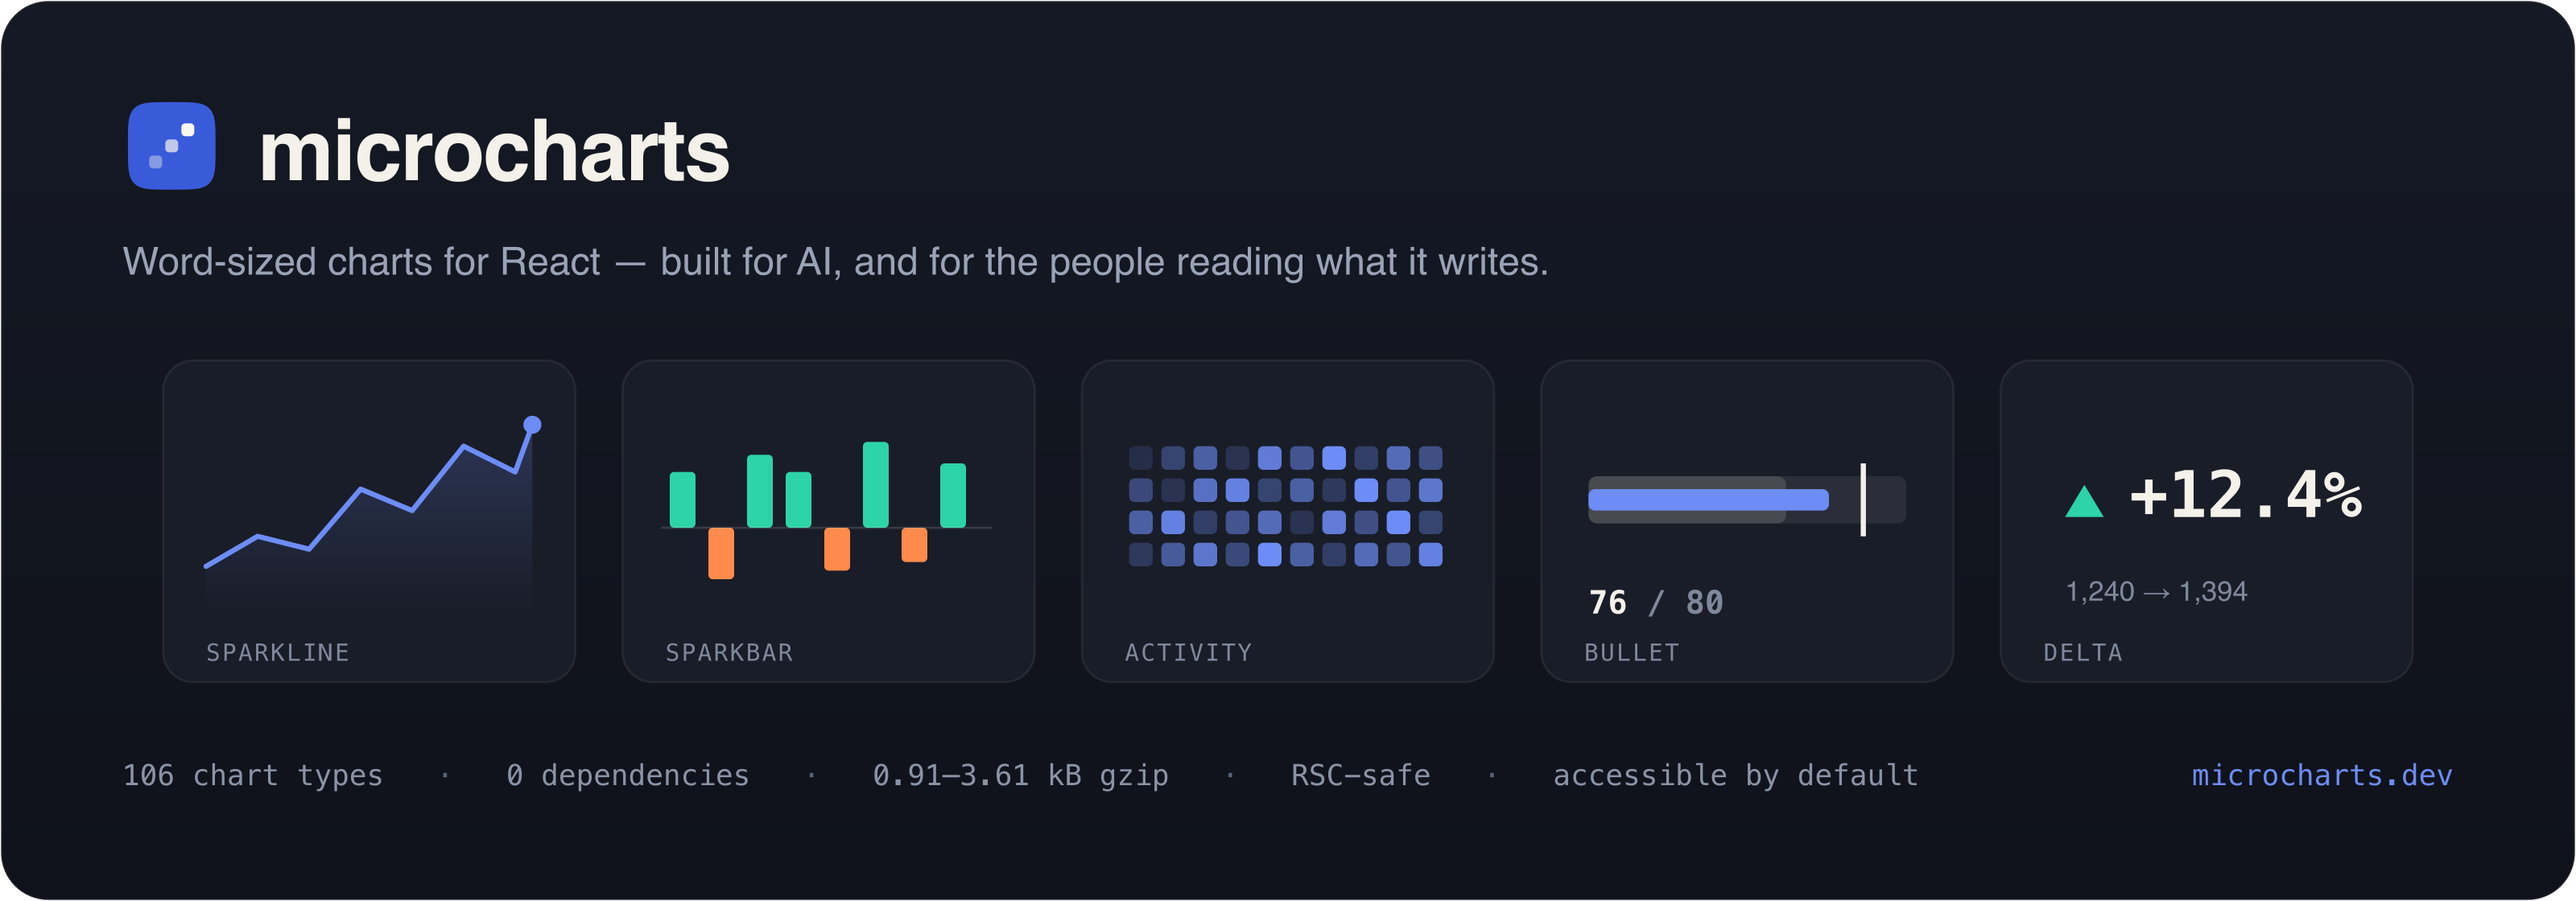
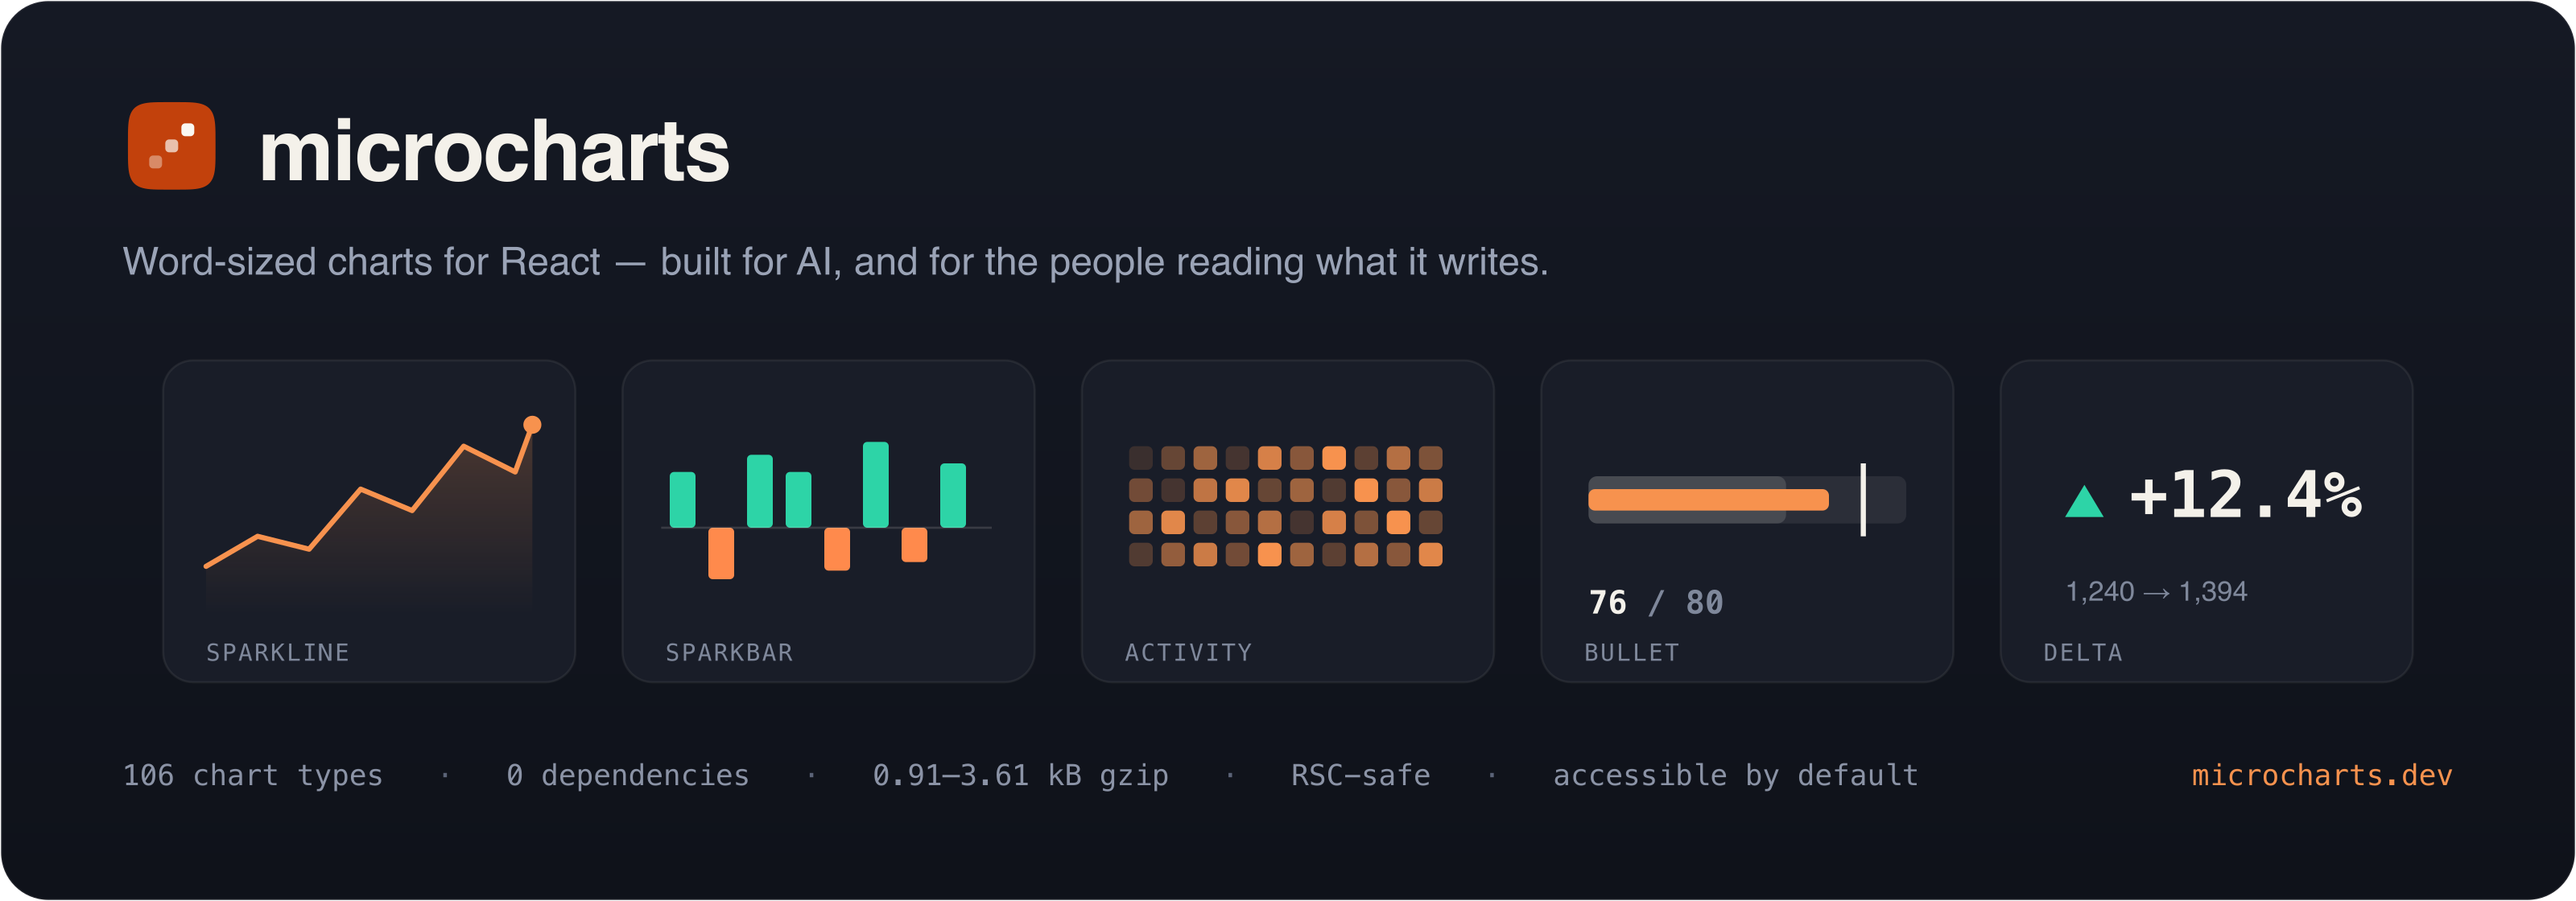
chore(docs): regenerate brand, promo, social & OG assets for Ember
Primary brand mark, brand kit zip, promo/social boards, OG default image,
and README badges all reflect the new Ember default accent; cobalt ships as
the cool-accent sibling (mark-cobalt.svg). No logic change, regenerated
artifacts + the brand-page metadata that names them.

Pre-existing uncommitted work on the branch; reviewed and verified green.

diff --git a/apps/docs/src/components/brand/shared.tsx b/apps/docs/src/components/brand/shared.tsx
@@ -5,17 +5,17 @@ import { CELL_FILL, CELL_R, CELL_SIZE, CELLS, SQUIRCLE_PATH } from "@/lib/brand"
 export type Tile = "light" | "dark" | "auto";
 
 export const ASSETS: { file: string; name: string; note: string; tile: Tile }[] = [
-  { file: "mark.svg", name: "Primary", note: "Cobalt squircle", tile: "light" },
+  { file: "mark.svg", name: "Primary", note: "Ember squircle", tile: "light" },
   { file: "mark-adaptive.svg", name: "Adaptive", note: "Auto light / dark", tile: "auto" },
   { file: "mark-mono-dark.svg", name: "Mono", note: "Dark ink · on light", tile: "light" },
   { file: "mark-mono-light.svg", name: "Mono", note: "Light ink · on dark", tile: "dark" },
-  { file: "mark-ember.svg", name: "Ember", note: "Warm accent", tile: "light" },
+  { file: "mark-cobalt.svg", name: "Cobalt", note: "Cool accent", tile: "light" },
   { file: "mark-teal.svg", name: "Teal", note: "Cool accent", tile: "light" },
 ];
 
 export const ACCENTS: { name: string; light: string; dark: string }[] = [
-  { name: "Cobalt", light: "#2f52d4", dark: "#7f9cf5" },
   { name: "Ember", light: "#c2410c", dark: "#f7924e" },
+  { name: "Cobalt", light: "#2f52d4", dark: "#7f9cf5" },
   { name: "Clay", light: "#a14a34", dark: "#e08e73" },
   { name: "Moss", light: "#4d7c1e", dark: "#a3c46a" },
   { name: "Teal", light: "#0f766e", dark: "#55c2b3" },

diff --git a/apps/docs/src/app/og/default.png/route.tsx b/apps/docs/src/app/og/default.png/route.tsx
@@ -31,7 +31,7 @@ export function GET() {
             width: 44,
             height: 44,
             borderRadius: 12,
-            background: "#2f52d4",
+            background: "#c2410c",
             display: "flex",
             alignItems: "center",
             justifyContent: "center",
@@ -64,12 +64,12 @@ export function GET() {
           <polyline
             points="0,96 120,80 240,88 360,52 480,64 600,30 720,44 840,14 960,26 1056,4"
             fill="none"
-            stroke="#2f52d4"
+            stroke="#c2410c"
             strokeWidth="5"
             strokeLinecap="round"
             strokeLinejoin="round"
           />
-          <circle cx="1056" cy="4" r="9" fill="#2f52d4" />
+          <circle cx="1056" cy="4" r="9" fill="#c2410c" />
         </svg>
       </div>
 

diff --git a/apps/docs/src/components/brand/logo-variants.tsx b/apps/docs/src/components/brand/logo-variants.tsx
@@ -11,7 +11,7 @@ export function BrandLogoVariants() {
       <Reveal className="mb-8 max-w-2xl">
         <h2 className="display text-[length:var(--text-fluid-h2)]">Six SVGs. Copy or download.</h2>
         <p className="mt-4 max-w-xl text-fd-muted-foreground">
-          Primary Cobalt, adaptive for light/dark hosts, mono inks, and two accent siblings. Each
+          Primary Ember, adaptive for light/dark hosts, mono inks, and two accent siblings. Each
           file is the shipped asset under{" "}
           <span className="font-mono text-fd-foreground">/brand</span>.
         </p>

diff --git a/apps/docs/src/components/brand/color-section.tsx b/apps/docs/src/components/brand/color-section.tsx
@@ -9,7 +9,7 @@ export function BrandColorSection() {
       <Reveal className="mb-8 max-w-2xl">
         <h2 className="display text-[length:var(--text-fluid-h2)]">One accent. Six tunings.</h2>
         <p className="mt-4 max-w-xl text-fd-muted-foreground">
-          A single token drives chrome, links, and chart emphasis. Cobalt is the default; five
+          A single token drives chrome, links, and chart emphasis. Ember is the default; five
           siblings swap through the picker. Click any chip to copy its hex.
         </p>
       </Reveal>

diff --git a/README.md b/README.md
@@ -9,10 +9,10 @@ server-component safe.
 
 <br>
 
-[![npm](https://img.shields.io/npm/v/@microcharts/react?color=2f52d4&label=npm)](https://www.npmjs.com/package/@microcharts/react)
-[![gzip per chart](https://img.shields.io/badge/per_chart-0.91–3.61_kB_gz-2f52d4)](https://microcharts.dev/docs/performance)
+[![npm](https://img.shields.io/npm/v/@microcharts/react?color=c2410c&label=npm)](https://www.npmjs.com/package/@microcharts/react)
+[![gzip per chart](https://img.shields.io/badge/per_chart-0.91–3.61_kB_gz-c2410c)](https://microcharts.dev/docs/performance)
 [![zero dependencies](https://img.shields.io/badge/dependencies-0-077353)](https://microcharts.dev)
-[![types](https://img.shields.io/npm/types/@microcharts/react?color=2f52d4)](https://microcharts.dev)
+[![types](https://img.shields.io/npm/types/@microcharts/react?color=c2410c)](https://microcharts.dev)
 [![React 18 · 19](https://img.shields.io/badge/React-18_·_19-077353)](https://microcharts.dev/docs/quickstart)
 [![MIT](https://img.shields.io/npm/l/@microcharts/react?color=666)](./LICENSE)
 [![Reviewed with Argos](https://argos-ci.com/badge.svg)](https://argos-ci.com?utm_source=ganapativs/microcharts&utm_campaign=oss)
